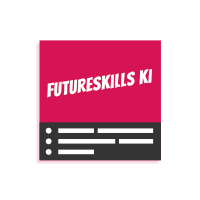
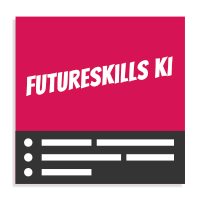
shorten css

diff --git a/src/app/sites/info-teaching/pages/info-teaching/info-teaching.component.html b/src/app/sites/info-teaching/pages/info-teaching/info-teaching.component.html
@@ -76,7 +76,7 @@
                   <div class="row mb-3">
                       <div class="col-12 col-md-3">
                           <div class="h-100 teaching-imgcontainer">
-                            <img class="mx-auto d-block" src="assets/images/info-teaching-2.png">
+                            <img class="mx-auto d-block p-3" src="assets/images/info-teaching-2.png">
                           </div>
                           
                       </div>

diff --git a/src/app/sites/info-teaching/pages/info-teaching/info-teaching.component.scss b/src/app/sites/info-teaching/pages/info-teaching/info-teaching.component.scss
@@ -292,21 +292,9 @@
 
     @media(min-width: $sm) {
       .teaching-imgcontainer {
-        position: relative;
-      }
-
-      img {
-        position: absolute;
-        left: 50%;
-        top: 50%;
-        transform: translate(-50%, -50%);
+        display:flex;
+        align-items:center;
+        justify-content:center;
       }
     }
-}
-
-.student-info figure img {
-  @media(max-width: $md) {
-    max-width: 50%;
-    margin: 0 auto;
-  }
 }
